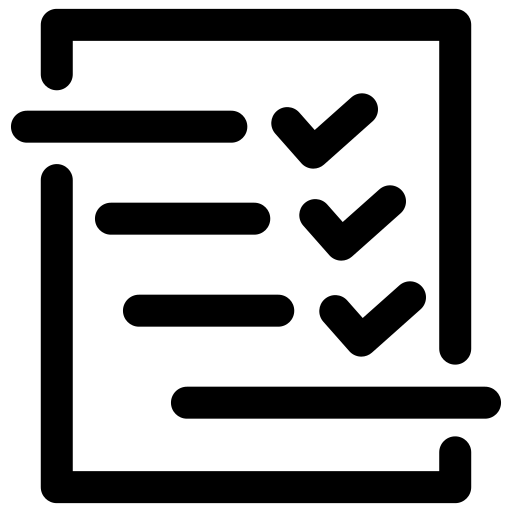
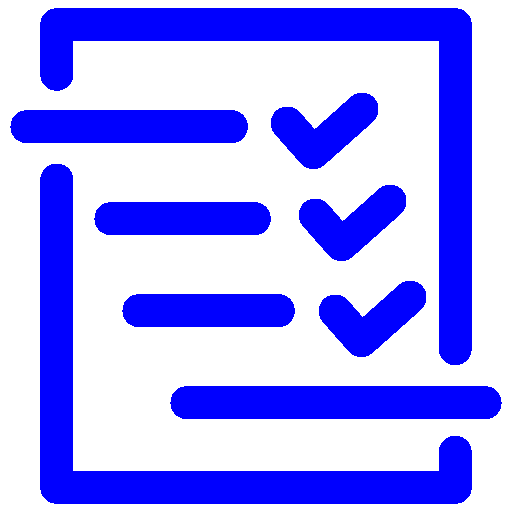
Updated image colors

diff --git a/styles.css b/styles.css
@@ -9,7 +9,7 @@ body {
   margin: 0;
   padding: 0;
   height: 100vh;
-  grid-template-columns: 1fr 7fr;
+  grid-template-columns: minmax(250px, 1fr) 7fr;
 }
 
 .search-container {
@@ -44,9 +44,8 @@ body {
 }
 
 .magnifying-glass:hover {
-  background-color: lightblue;
+  background-color: #ffff88;
   border-radius: 10px 0px 0px 10px;
-  /* transition: all 0.2s; */
   cursor: pointer;
 }
 
@@ -66,12 +65,13 @@ body {
   display: grid;
   justify-content: center;
   align-content: start;
-  /* padding-left: 30px; */
   background-color: #fafafa;
   /* background-color: #ebebeb; */
+  margin-top: 10px;
   grid-row: 2;
   height: calc(100vh - 60px);
   grid-column: 1;
+  gap: 5px;
 }
 
 #to-do-form {
@@ -90,12 +90,15 @@ body {
   gap: 20px;
 }
 
-.project-wrapper {
-  display: flex;
-  align-items: center;
-  padding: 15px;
-  padding-left: 30px;
-  gap: 20px;
+.all-todo-wrapper:hover,
+.today-todo-wrapper:hover,
+.upcoming-todo-wrapper:hover,
+.projects-wrapper:hover,
+.project-wrapper:hover {
+  background-color: rgb(128, 128, 128, 0.3);
+  border-radius: 10px;
+  transition: all 0.2s;
+  cursor: pointer;
 }
 
 .all-todo-image,
@@ -107,9 +110,12 @@ body {
   width: auto;
 }
 
-.projects-wrapper form {
-  /* border: 1px solid red; */
-  padding: 24px;
+.project-wrapper {
+  display: flex;
+  align-items: center;
+  padding: 15px;
+  margin-left: 15px;
+  gap: 20px;
 }
 
 ul {
@@ -140,6 +146,7 @@ label {
 #due-date:hover {
   box-shadow: 0 1px 6px rgba(32, 33, 36, 0.3);
   transition: all 0.2s;
+  cursor: pointer;
 }
 
 .option-wrapper {
